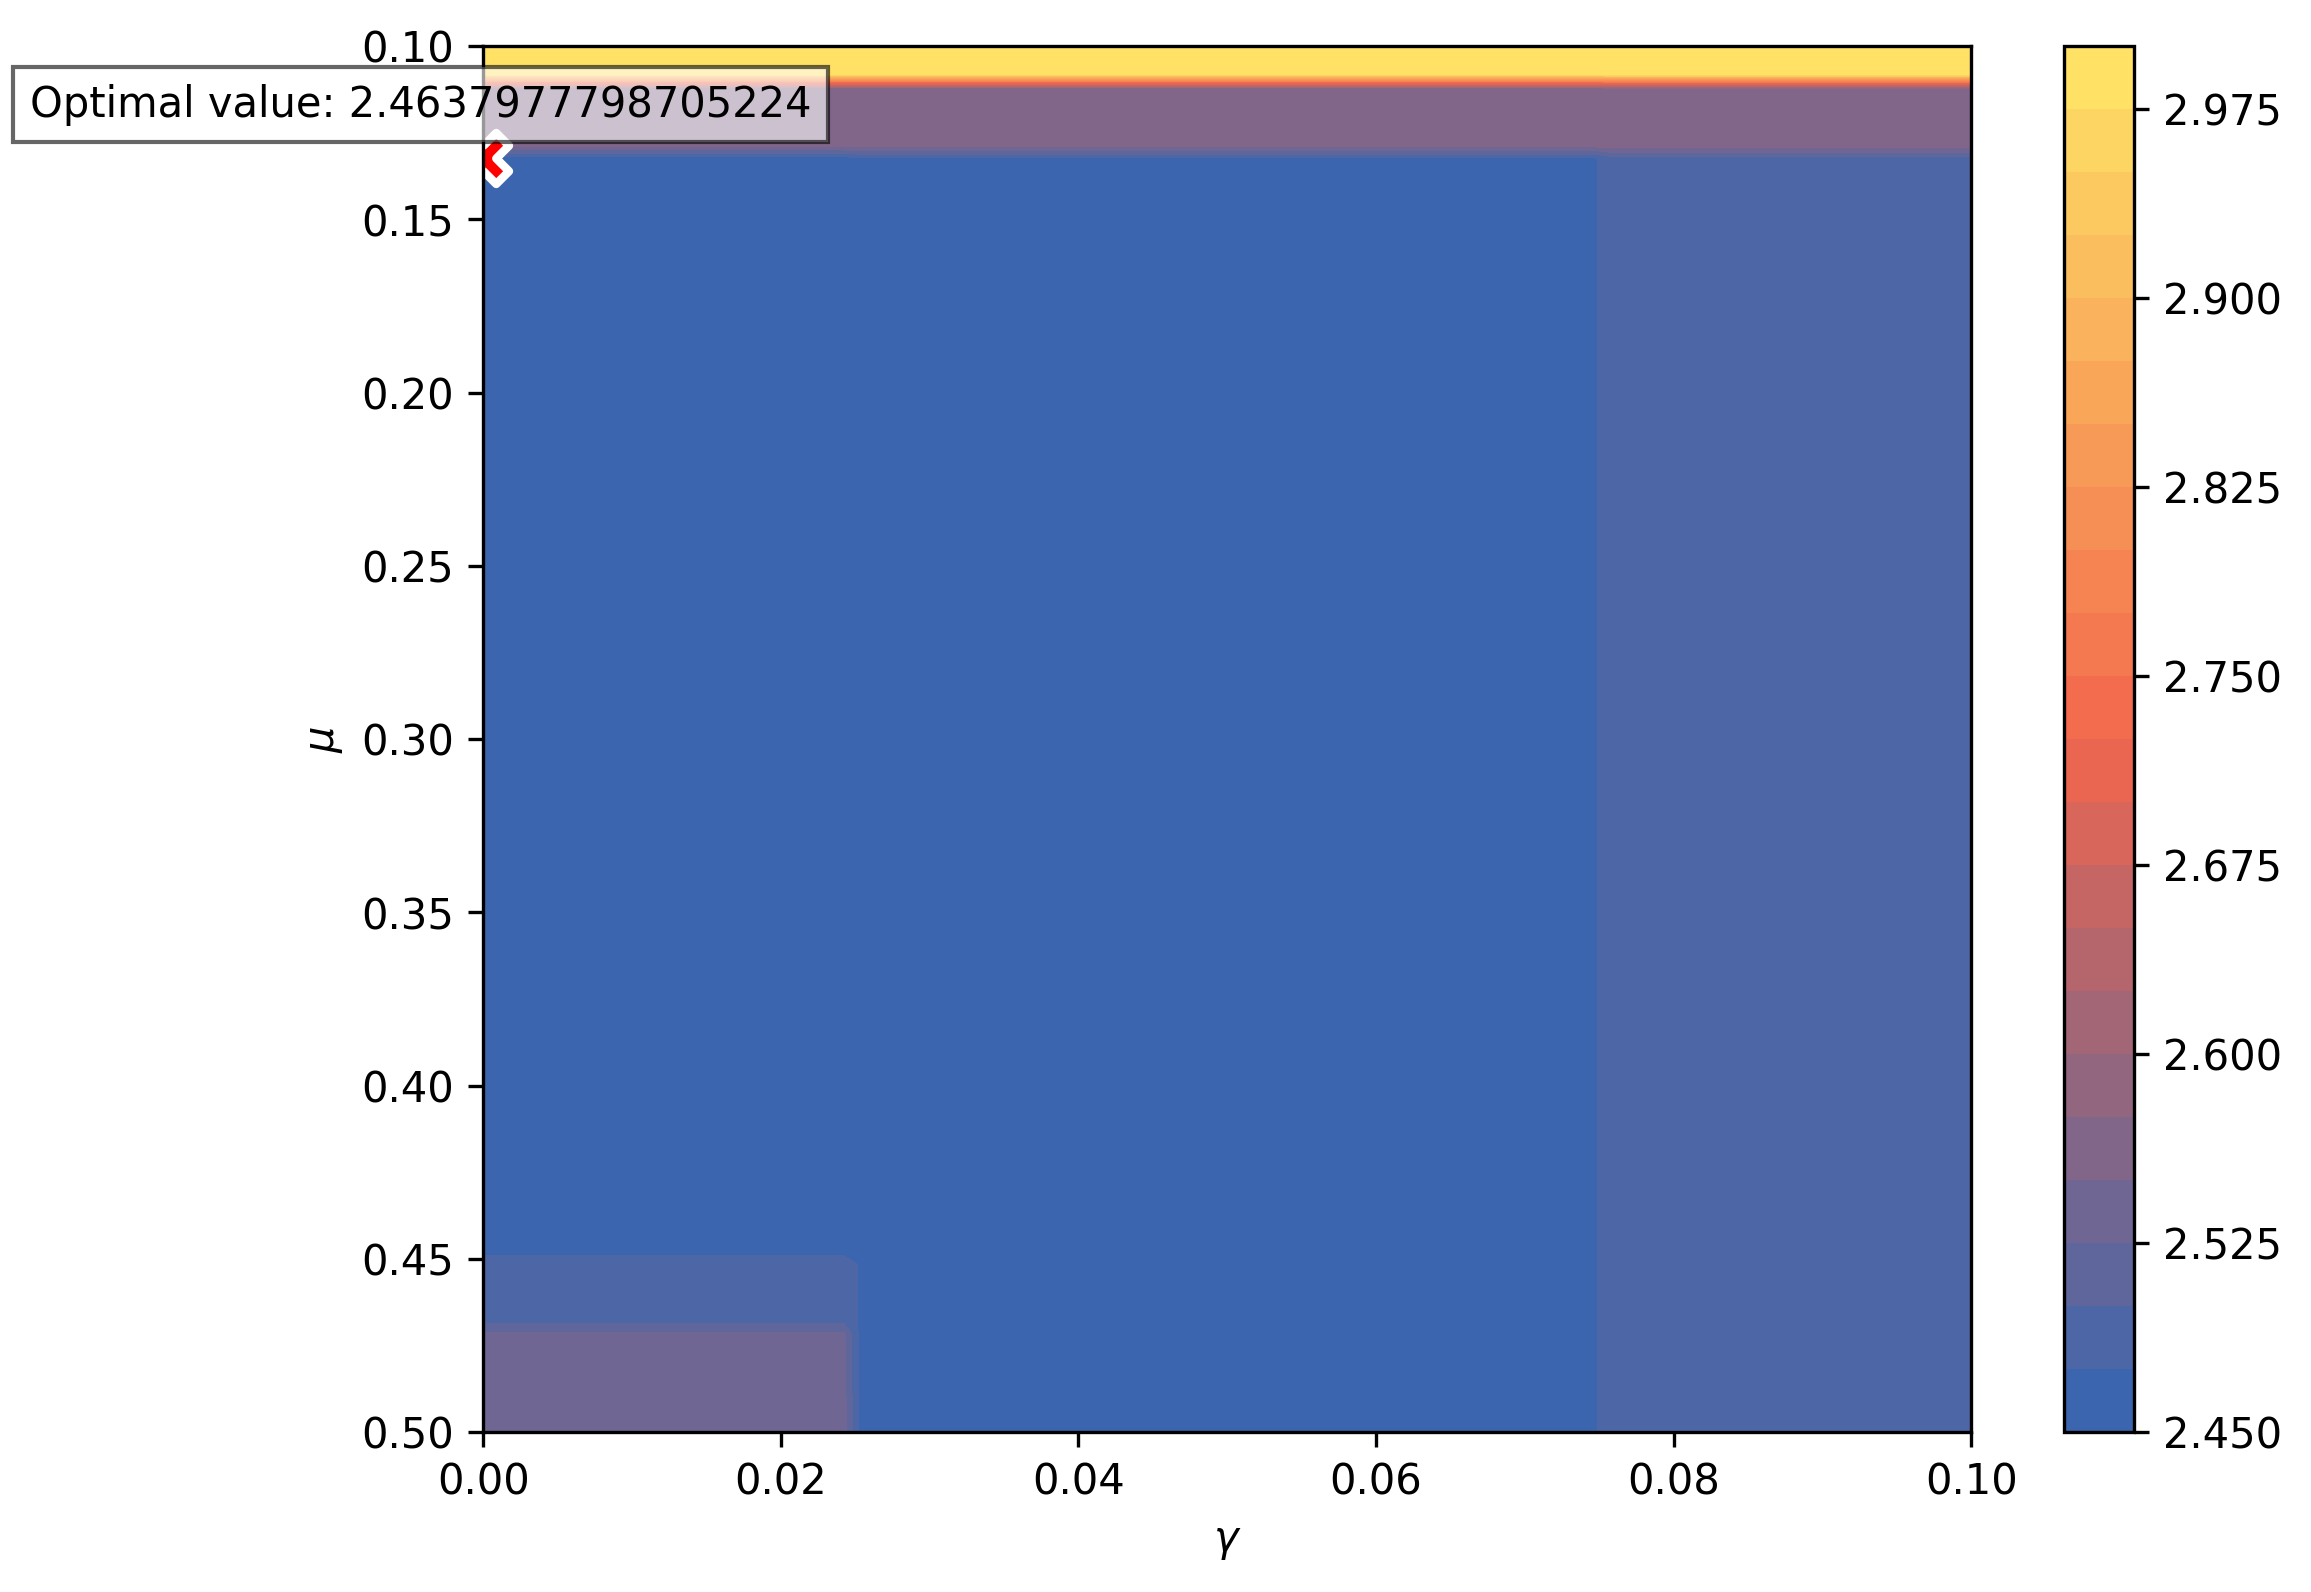
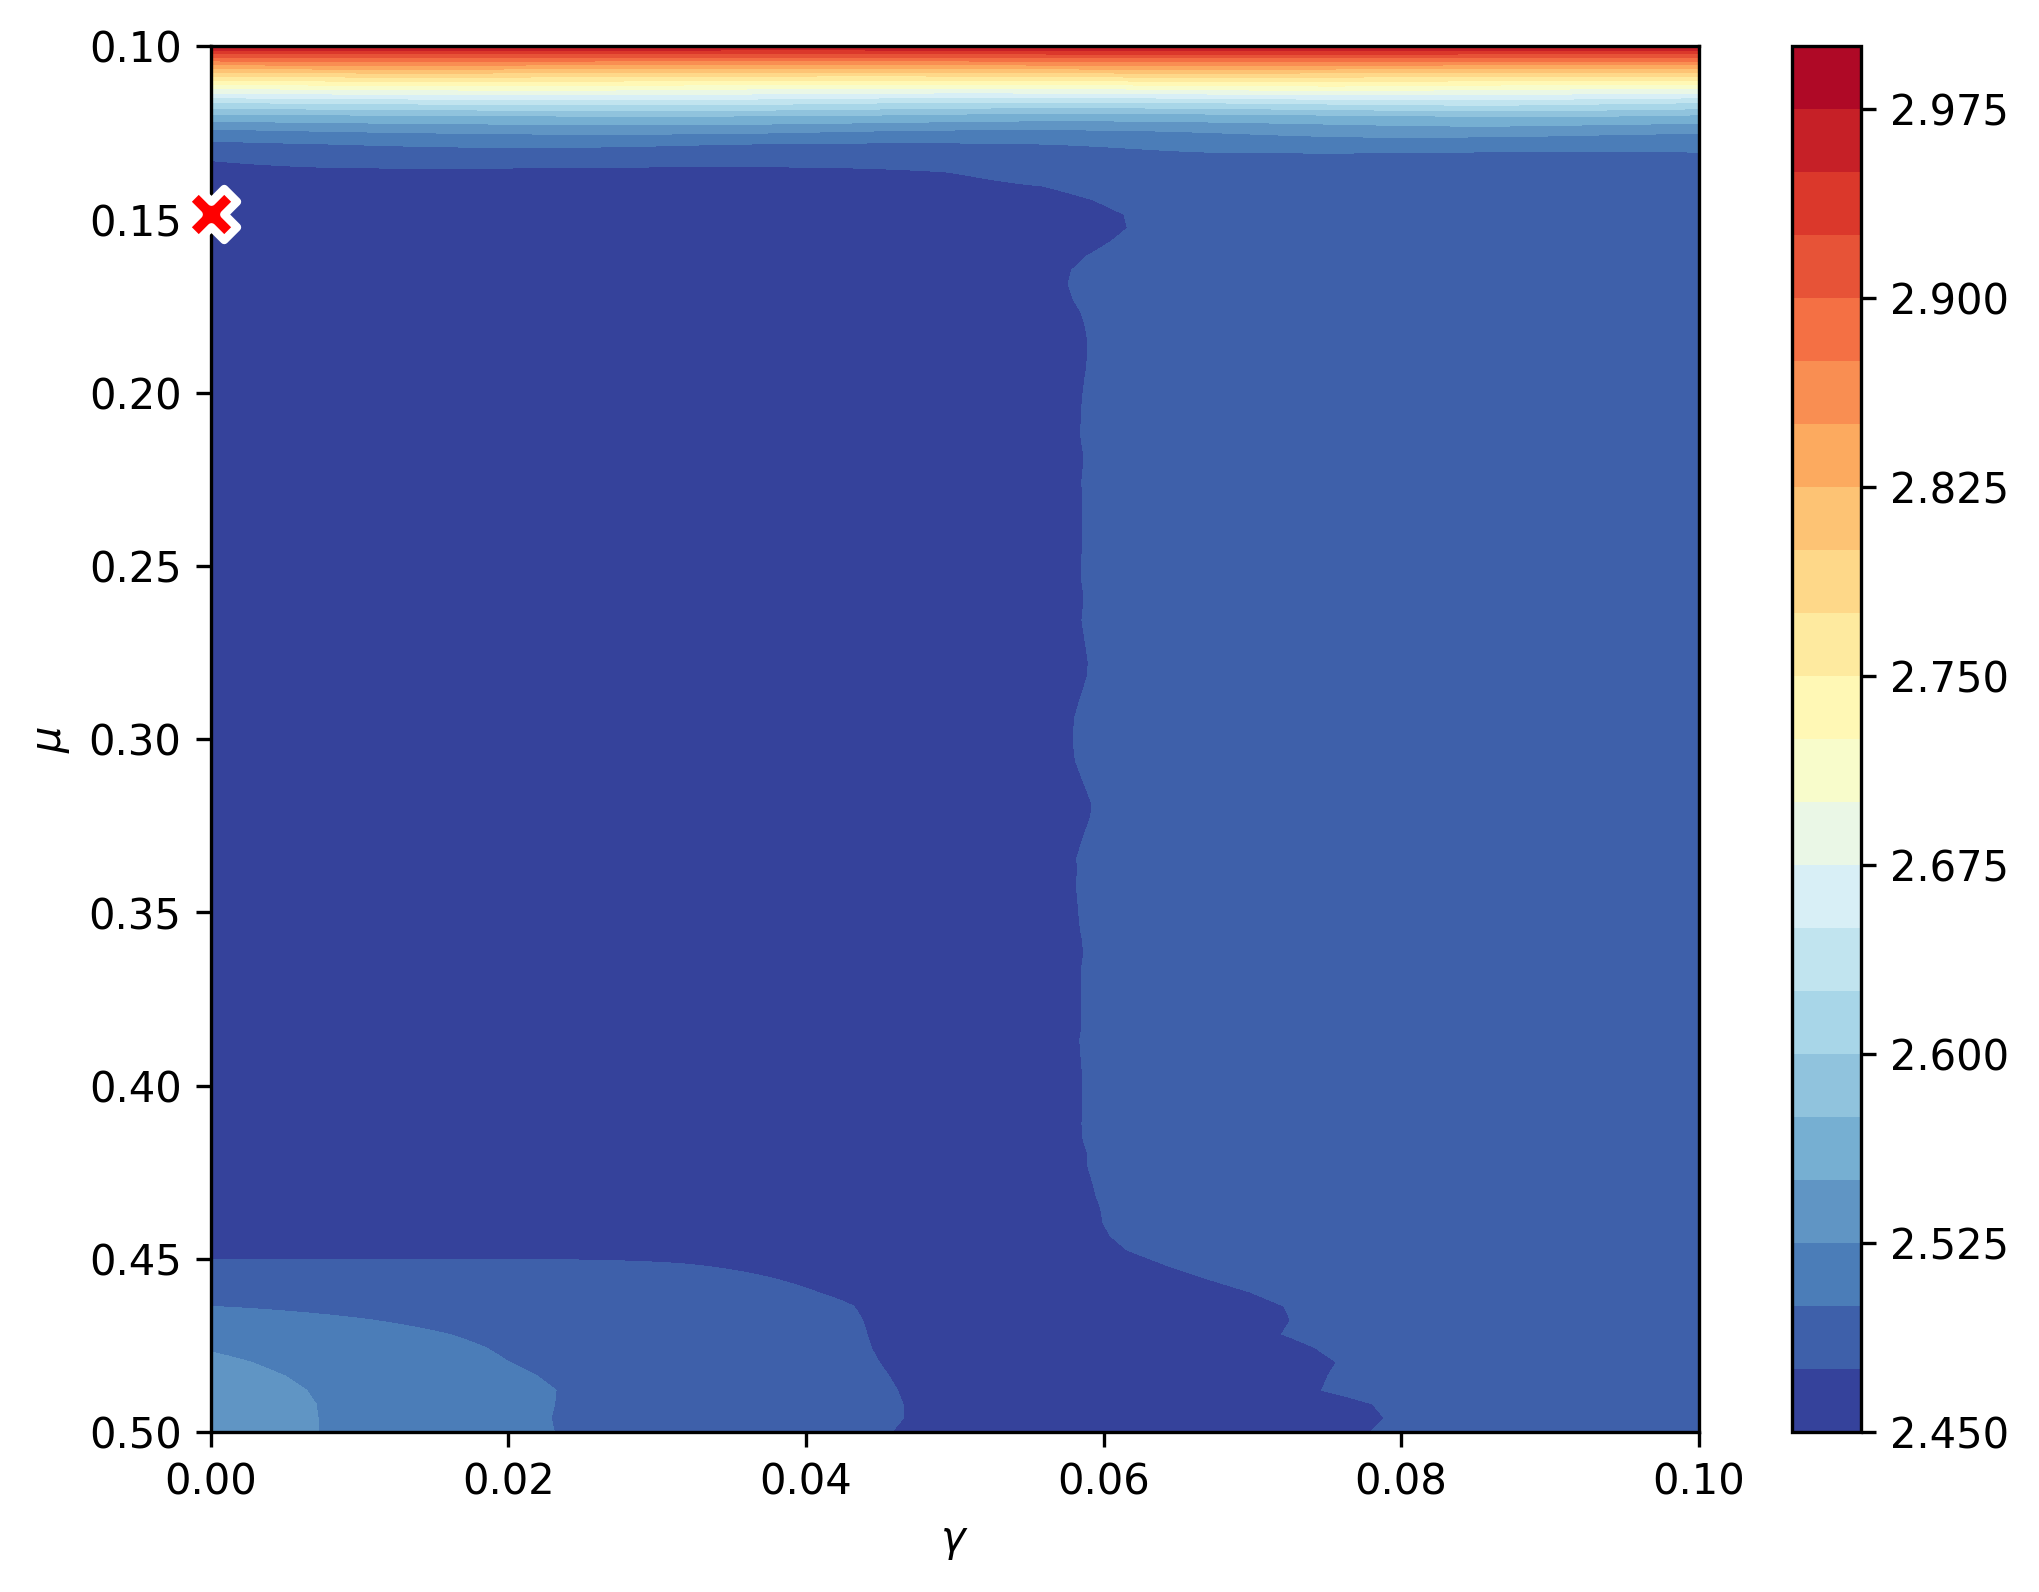
update graph color

diff --git a/Surfaceplots2.py b/Surfaceplots2.py
@@ -5,43 +5,43 @@ from mpl_toolkits.mplot3d import Axes3D
 import os
 
 # Load data
-data = pd.read_csv(r'C:\Thesis\Fresh pull\Onlineschedulingalgo_assorted_1\Results_mtsa\Heat_Maps\General\Generate_Avg_Max.csv')
+data = pd.read_csv(r'C:\Thesis\Fresh pull\Onlineschedulingalgo_assorted_1\Results_mtpa\Heat_Maps\Amdahl\Generate_Avg_Max.csv')
 
-save_directory = r'C:\Thesis\Fresh pull\Onlineschedulingalgo_assorted_1\Results_mtsa\Surface_Plots\General'
+save_directory = r'C:\Thesis\Fresh pull\Onlineschedulingalgo_assorted_1\Results_mtpa\Surface_Plots\Amdahl'
 os.makedirs(save_directory, exist_ok=True)  # Ensure the directory exists
 
 # Sort and pivot data to create a structured grid
-data = data.sort_values(by=['alpha', 'mu'])
-pivot_table = data.pivot(index='mu', columns='alpha', values='max')[::-1]  # Reverse Mu for top-down order
+data = data.sort_values(by=['gamma', 'mu'])
+pivot_table = data.pivot(index='mu', columns='gamma', values='max')[::-1]  # Reverse Mu for top-down order
 
 # Extract values for plotting
 mu_vals = pivot_table.index.values  # Exact mu values from data
-alpha_vals = np.sort(pivot_table.columns.values)  # Sorted alpha values
+gamma_vals = np.sort(pivot_table.columns.values)  # Sorted gamma values
 max_vals = pivot_table.values  # Values for max
 
 # Create meshgrid
-alpha_grid, mu_grid = np.meshgrid(alpha_vals, mu_vals)
+gamma_grid, mu_grid = np.meshgrid(gamma_vals, mu_vals)
 
 # Create the surface plot with a **smaller figure size**
 fig = plt.figure(figsize=(6, 5), dpi=150)  # Decrease image size
 ax = fig.add_subplot(111, projection='3d')
 
 # Plot surface with no normalization (cmap 'inferno' has yellow in the higher range)
-surf = ax.plot_surface(alpha_grid, mu_grid, max_vals, cmap='inferno', edgecolor='k')
+surf = ax.plot_surface(gamma_grid, mu_grid, max_vals, cmap='inferno', edgecolor='k')
 
 # Find minimum value (optimal value)
 min_index = np.unravel_index(np.argmin(max_vals, axis=None), max_vals.shape)
-min_alpha, min_mu, min_z = alpha_grid[min_index], mu_grid[min_index], max_vals[min_index]
+min_gamma, min_mu, min_z = gamma_grid[min_index], mu_grid[min_index], max_vals[min_index]
 
 # # **Check if the minimum value is within plot bounds before marking**
-# if (alpha_vals[0] <= min_alpha <= alpha_vals[-1]) and (mu_vals[0] <= min_mu <= mu_vals[-1]):
-#     ax.scatter(min_alpha, min_mu, min_z, color='red', s=80, marker='X', edgecolors='white', linewidth=1.5, label="Optimal value")
-#     ax.text(min_alpha, min_mu, min_z, f"Optimal: {min_z:.2f}", color='black', fontsize=8, ha='left', bbox=dict(facecolor='white', alpha=0.6))
+# if (gamma_vals[0] <= min_gamma <= gamma_vals[-1]) and (mu_vals[0] <= min_mu <= mu_vals[-1]):
+#     ax.scatter(min_gamma, min_mu, min_z, color='red', s=80, marker='X', edgecolors='white', linewidth=1.5, label="Optimal value")
+#     ax.text(min_gamma, min_mu, min_z, f"Optimal: {min_z:.2f}", color='black', fontsize=8, ha='left', bbox=dict(facecolor='white', gamma=0.6))
 
 # Set axis labels and limits
-ax.set_xlabel(r'$\alpha$', fontsize=8, labelpad=8)
+ax.set_xlabel(r'$\gamma$', fontsize=8, labelpad=8)
 ax.set_ylabel(r'$\mu$', fontsize=8, labelpad=8)
-ax.set_zlabel('Max', fontsize=8, labelpad=0.0005)
+
 ax.zaxis.set_rotate_label(False)  # Prevent automatic rotation
 
 
@@ -50,7 +50,7 @@ ax.view_init(elev=30, azim=45)  # Adjust azimuth angle to bring Z-axis to the le
 ax.zaxis.set_label_coords(-0.1, 0.5)
 
 # Use exact mu values without approximation
-ax.set_xlim(alpha_vals[0], alpha_vals[-1])  # Set limits based on data
+ax.set_xlim(gamma_vals[0], gamma_vals[-1])  # Set limits based on data
 ax.set_ylim(mu_vals[0], mu_vals[-1])  # Use exact mu values
 
 # Manually set the ticks for the mu axis to be exactly the mu values
@@ -67,7 +67,7 @@ ccbar = fig.colorbar(surf, ax=ax, shrink=0.6, aspect=20, pad=0.15)
 # cbar.set_label('Max', fontsize=10)
 
 # Add legend only if the optimal value was marked
-# if (alpha_vals[0] <= min_alpha <= alpha_vals[-1]) and (mu_vals[0] <= min_mu <= mu_vals[-1]):
+# if (gamma_vals[0] <= min_gamma <= gamma_vals[-1]) and (mu_vals[0] <= min_mu <= mu_vals[-1]):
 #     ax.legend(fontsize=9)
 
 # **Make the layout tighter manually**

diff --git a/Countourplot2.py b/Countourplot2.py
@@ -6,50 +6,41 @@ from scipy.interpolate import griddata
 from matplotlib.colors import LinearSegmentedColormap, Normalize
 
 # Load data from CSV file
-csv_file = r'C:\Thesis\Fresh pull\Onlineschedulingalgo_assorted_1\Results_mast\Heat_Maps\Roofline\Generate_Avg_Max.csv'
+csv_file = r'C:\Thesis\Fresh pull\Onlineschedulingalgo_assorted_1\Results_mtpa\Heat_Maps\General\Generate_Avg_Max.csv'
 data = pd.read_csv(csv_file)
 
 # Define save directory
-save_directory = r'C:\Thesis\Fresh pull\Onlineschedulingalgo_assorted_1\Results_mast\Contour_Plots\Roofline'
+save_directory = r'C:\Thesis\Fresh pull\Onlineschedulingalgo_assorted_1\Results_mtpa\Contour_Plots\General'
 os.makedirs(save_directory, exist_ok=True)  # Ensure the directory exists
 
 # Create grid for contour plot
 mu_vals = np.linspace(data['mu'].min(), data['mu'].max(), 100)
-beta_vals = np.linspace(data['beta'].min(), data['beta'].max(), 100)
-mu_grid, beta_grid = np.meshgrid(mu_vals, beta_vals)
+gamma_vals = np.linspace(data['gamma'].min(), data['gamma'].max(), 100)
+mu_grid, gamma_grid = np.meshgrid(mu_vals, gamma_vals)
 
 # Function to interpolate data
 def interpolate_column(column_name):
     return griddata(
-        (data['beta'], data['mu']),  # (x, y) order
+        (data['gamma'], data['mu']),  # (x, y) order
         data[column_name],
-        (beta_grid, mu_grid),  # Interpolated to match the grid
-        method='nearest'  # Change to 'linear' or 'nearest' if needed
+        (gamma_grid, mu_grid),  # Interpolated to match the grid
+        method='cubic'  # Change to 'linear' or 'nearest' if needed
     )
 
 # Generate grids for 'average' and 'max' values
 average_grid = interpolate_column('average')
 max_grid = interpolate_column('max')
 
-# Define custom colormap (Adjusted for Yellow → Red → Darker Blue)
-custom_colors = [
-    (1.0, 0.9, 0.4),  # Light Yellow (Max)
-    (0.95, 0.4, 0.3), # Soft Red (Middle)
-    (0.2, 0.4, 0.7)   # Darker Blue (Min)
-]
 
-# Create the colormap and its reversed version
-custom_cmap = LinearSegmentedColormap.from_list("YlRdBu_custom", custom_colors, N=256)
-custom_cmap_reversed = custom_cmap.reversed()
 
 # Function to plot contour with minimum value marked
-def plot_contour_with_min(grid, title, cmap=custom_cmap_reversed):
+def plot_contour_with_min(grid, title, cmap='RdYlBu_r'):
     plt.figure(figsize=(8, 6))
     
     # Plot the contour
-    contour = plt.contourf(beta_grid, mu_grid, grid, levels=20, cmap=cmap)
+    contour = plt.contourf(gamma_grid, mu_grid, grid, levels=20, cmap=cmap)
     plt.colorbar(contour)
-    plt.xlabel(r'$\beta$',  fontweight='bold')  # Bigger and bold beta (α)
+    plt.xlabel(r'$\gamma$',  fontweight='bold')  # Bigger and bold gamma (α)
     plt.ylabel(r'$\mu$',  fontweight='bold')      # Bigger and bold Mu (μ)
 
     plt.title(title)
@@ -61,17 +52,16 @@ def plot_contour_with_min(grid, title, cmap=custom_cmap_reversed):
     min_value = np.nanmin(grid)  # Use nanmin to avoid issues with NaNs
     min_index = np.unravel_index(np.nanargmin(grid), grid.shape)  # Get index of min value
     
-    # Get the corresponding beta and mu values
-    min_beta = beta_grid[min_index]
+    # Get the corresponding gamma and mu values
+    min_gamma = gamma_grid[min_index]
     min_mu = mu_grid[min_index]
 
     # Mark the minimum value on the plot with a red circle
-    plt.scatter(min_beta, min_mu, color='red', s=150, marker='X', edgecolors='white', linewidth=2, label=f"Min: {min_value:.2f}")
-    
-    # Add annotation next to the minimum marker
-    plt.annotate(f"Optimal value: {min_value}", (min_beta, min_mu), textcoords="offset points", xytext=(-15,10), ha='center', fontsize=10, color='black', bbox=dict(facecolor='white', alpha=0.6))
+    plt.scatter(min_gamma, min_mu, color='red', s=150, marker='X',
+            edgecolors='white', linewidth=2, clip_on=False,
+            zorder=3, label=f"Min: {min_value:.2f}")
 
-    # Save the plot before showing
+    
     plot_path = os.path.join(save_directory, 'Contour_max.png')
     plt.savefig(plot_path, dpi=300, bbox_inches='tight')  # Save the figure
     plt.show()  # Display the plot
